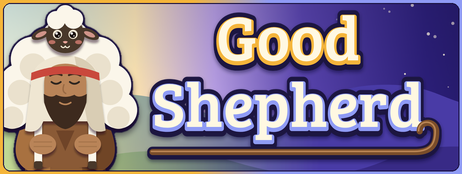
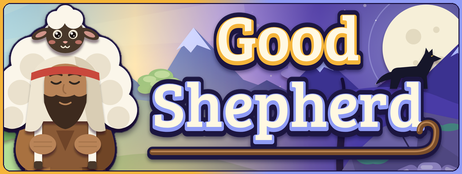
Capsules stand on the new key scene (mountains, the fold, better sheep) behind the shepherd
Claude-Session: https://claude.ai/code/session_01VpcujKa2SduHoRcPjGQsic

diff --git a/tools/keyscene.py b/tools/keyscene.py
@@ -164,7 +164,7 @@ def den(x, y, s=1.0):
     return "".join(out)
 
 
-def scene():
+def scene(shepherd=True):
     rnd = random.Random(7)
     d = [f'<svg xmlns="http://www.w3.org/2000/svg" width="{W}" height="{H}" viewBox="0 0 {W} {H}"><defs>'
          f'<filter id="paper" x="-20%" y="-20%" width="140%" height="150%"><feDropShadow dx="0" dy="12" stdDeviation="7" flood-color="#150e1e" flood-opacity=".4"/></filter>'
@@ -220,7 +220,8 @@ def scene():
     d.append(f'<rect x="2200" y="1560" width="1640" height="130" fill="#8f86d8" opacity=".12" filter="url(#b40)"/>')
     # the last warm light of the day round him, then the shepherd, centred
     d.append(f'<ellipse cx="1920" cy="1500" rx="900" ry="640" fill="url(#lampspill)"/>')
-    d.append(S.shepherd(1920, 1975, 0.8, "upright"))   # (the lamb upright on his shoulders, as on the capsules: slung across, its hanging head read as a beard)
+    if shepherd:
+        d.append(S.shepherd(1920, 1975, 0.8, "upright"))   # (the lamb upright on his shoulders, as on the capsules: slung across, its hanging head read as a beard)
     d.append(ridge("url(#h5)", [(0, 2020), (600, 1970), (1300, 2030), (2000, 1995), (2700, 2040), (3300, 1985), (W, 2030)]))
     for fx, fy, fs, col in [(160, 2110, 1.3, "#c9483c"), (420, 2050, 0.9, "#f5b53a"), (640, 2090, 1.0, "#c9483c"), (900, 2060, 0.8, "#ffffff"), (1180, 2120, 1.2, "#c9483c"), (1440, 2060, 0.8, "#f5b53a"), (1640, 2100, 0.9, "#c9483c")]:
         d.append(S.flower(fx, fy, fs, col))

diff --git a/tools/capsule_set.py b/tools/capsule_set.py
@@ -49,7 +49,8 @@ def main():
     subprocess.run([sys.executable, os.path.join(ROOT, "tools", "logo_drafts.py"), "--only", "6-blend"], check=True)
     D.raster([("d_mark_circle", LG.mark("circle"), 1024, 1024), ("d_mark_app", LG.mark("squircle"), 1024, 1024)])
     extra = f'<ellipse cx="1500" cy="1500" rx="900" ry="620" fill="url(#lampspill)"/>' + S.cloud(1050, 1010, 0.8) + S.cloud(700, 620, 1.0)
-    D.raster([("d_bg", D.bold(L.backdrop(extra)), D.W, D.H), ("d_man", D.bold(L.defs() + S.shepherd(1500, 1960, 1.0, "upright") + "</svg>"), D.W, D.H),
+    # the capsules' ground is the key scene itself (tools/keyscene.py) without its shepherd; he is drawn large over it
+    D.raster([("d_bg", keyscene.scene(False), D.W, D.H), ("d_man", D.bold(L.defs() + S.shepherd(1500, 1960, 1.0, "upright") + "</svg>"), D.W, D.H),
               ("d_scene", keyscene.scene(), D.W, D.H)])   # the wide scene: tools/keyscene.py
     T = lambda n: Image.open(os.path.join(D.TMP, n + ".png"))
     stack = Image.open(os.path.join(ROOT, "lab", "logos", "6-blend.png")).convert("RGBA")
